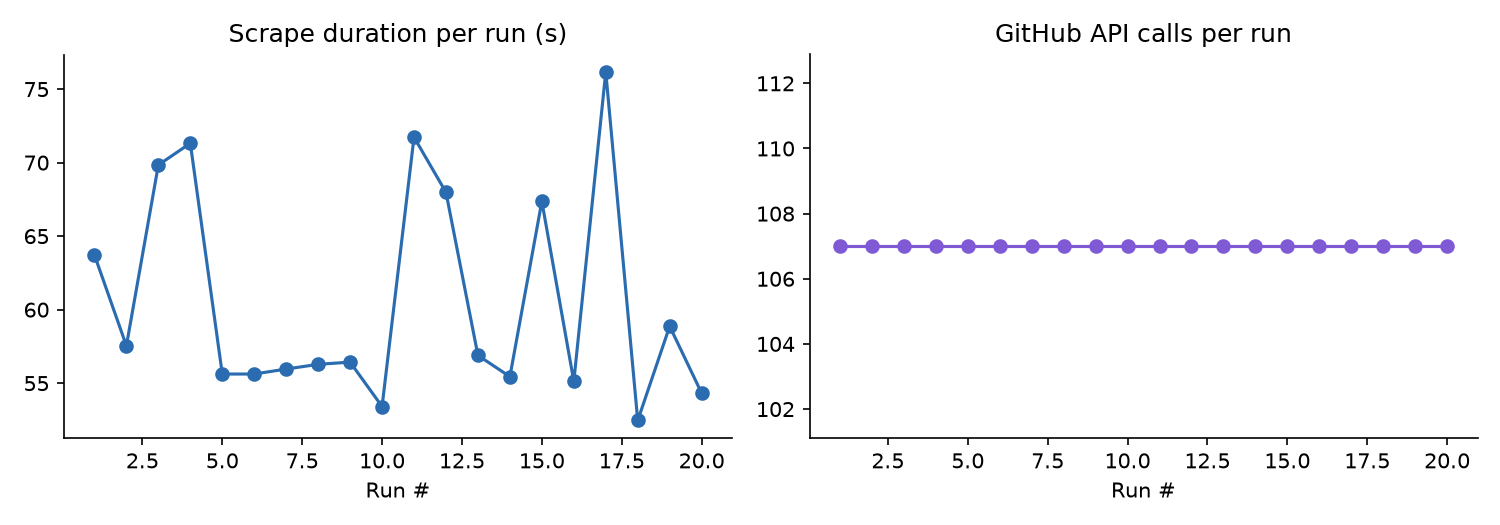
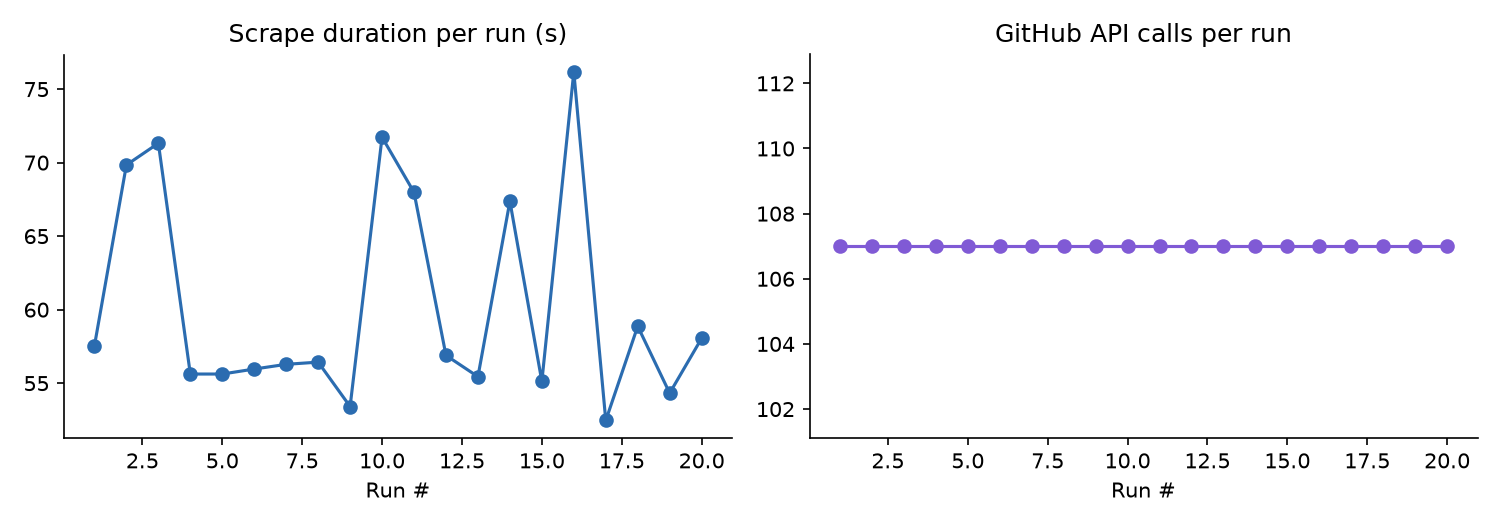
Weekly issue tracker refresh

Changed region(s): [[0.2453, 0.1219, 0.4907, 0.8229], [0.0613, 0.2438, 0.1533, 0.6705], [0.1227, 0.6095, 0.276, 0.7924]]

diff --git a/README.md b/README.md
@@ -81,7 +81,7 @@ See [CONTRIBUTING.md](CONTRIBUTING.md) for the full contributor workflow — inc
 
 <!-- TRACKER:START -->
 
-_Last updated: 2026-07-23 23:38 UTC_
+_Last updated: 2026-07-24 00:03 UTC_
 
 _Tracking **18** upstream repos, **390** relevant open issues._
 
@@ -294,7 +294,7 @@ _Tracking **18** upstream repos, **390** relevant open issues._
 
 <!-- METRICS:START -->
 
-_Last run: 2026-07-23 23:37 UTC, took **54.3s**, **107** GitHub API calls, **4894/5000** rate limit remaining._
+_Last run: 2026-07-24 00:02 UTC, took **58.0s**, **107** GitHub API calls, **4788/5000** rate limit remaining._
 
 ![Scrape metrics trend](assets/metrics_trend.png)
 
